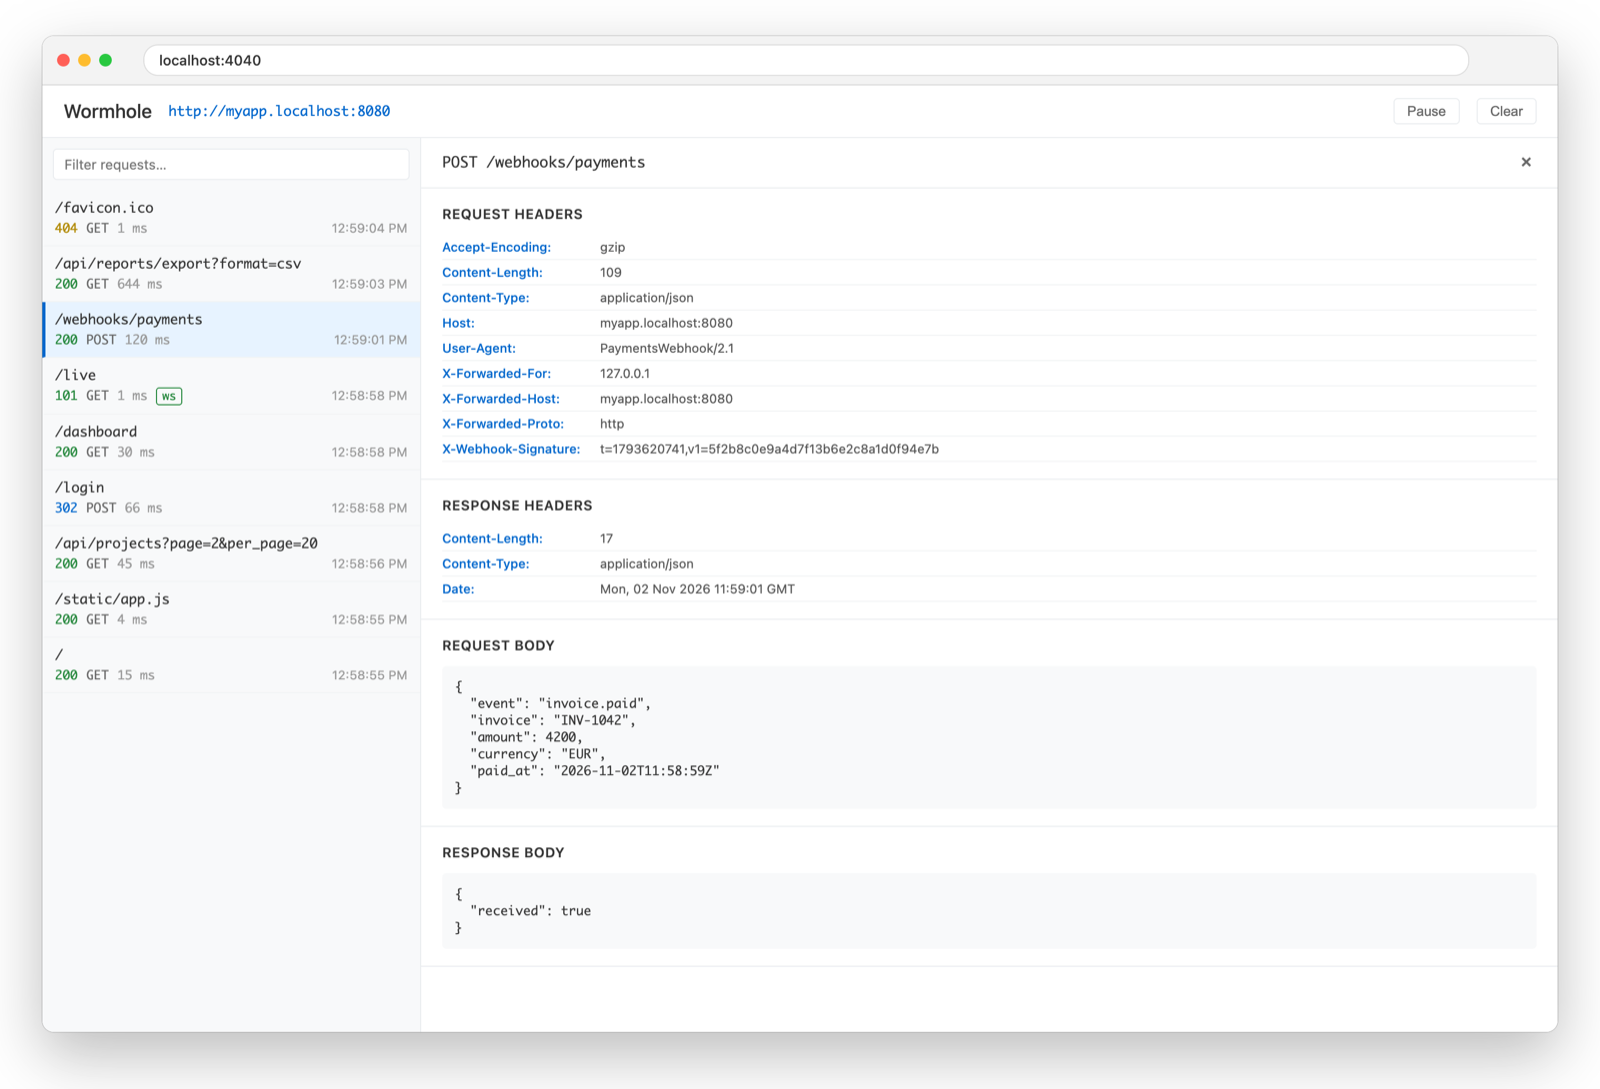
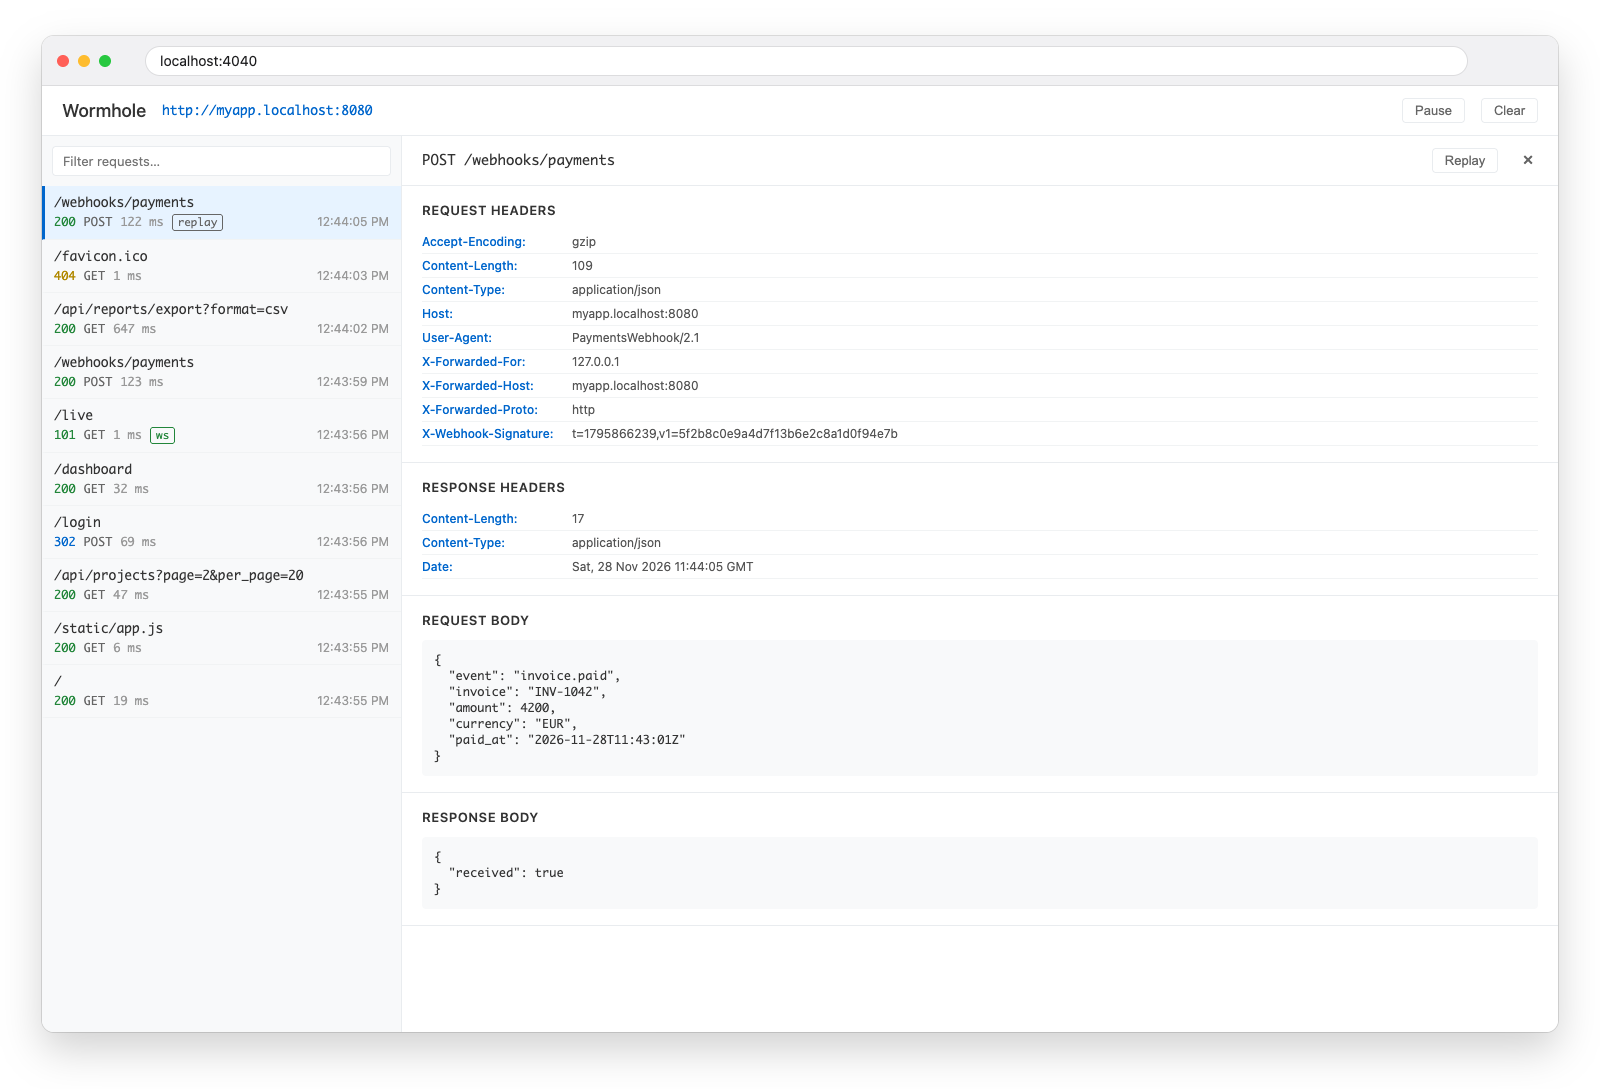
Add request replay to the Web UI
A Replay button in the request details sends the recorded request to
the local app again and records the result as a new entry, marked with
a replay badge (RequestLog.ReplayOf). The replay goes from the client
to the local app only, never through the server.

Requests still in progress, WebSocket handshakes and requests whose
stored body was cut at 64 KB are refused. The endpoint also refuses a
foreign Origin, since a bodyless POST needs no preflight and its Host
passes localHostOnly.

diff --git a/client/templates/dashboard.js b/client/templates/dashboard.js
@@ -182,7 +182,8 @@ async function refreshMessages() {
 }
 
 function matchesFilter(req, query) {
-    const text = req.Method + ' ' + req.URL + ' ' + req.StatusCode + (req.Stream ? ' websocket' : '');
+    const text = req.Method + ' ' + req.URL + ' ' + req.StatusCode + (req.Stream ? ' websocket' : '') +
+        (req.ReplayOf ? ' replay' : '');
     return text.toLowerCase().includes(query);
 }
 
@@ -210,6 +211,9 @@ function renderRequestItem(req) {
             ? '<span class="ws-badge ws-open" title="WebSocket open">ws</span>'
             : '<span class="ws-badge ws-closed" title="WebSocket closed">ws</span>';
     }
+    const replayBadge = req.ReplayOf
+        ? '<span class="ws-badge replay-badge" title="Replay of an earlier request">replay</span>'
+        : '';
 
     return '<li class="request-item' + selected + '" data-id="' + req.UUID + '"' +
         ' title="' + escapeHtml(req.URL) + '" onclick="selectRequest(\'' + req.UUID + '\')">' +
@@ -219,6 +223,7 @@ function renderRequestItem(req) {
         '<span class="method">' + escapeHtml(req.Method) + '</span>' +
         '<span class="duration" title="Time the local app took to respond">' + formatDuration(req.Duration) + '</span>' +
         wsBadge +
+        replayBadge +
         errorDot +
         '<span class="time">' + time + '</span>' +
         '</div>' +
@@ -283,6 +288,15 @@ function renderDetails(inHistory) {
     lastDetailsPayload = payload;
 
     document.getElementById('detailsTitle').textContent = req.Method + ' ' + req.URL;
+
+    // The server refuses these too; the button only says so up front.
+    const replayButton = document.getElementById('replayButton');
+    const storedBody = req.RequestBody ? atob(req.RequestBody).length : 0;
+    let replayBlocked = '';
+    if (req.Stream) replayBlocked = 'WebSocket handshakes cannot be replayed';
+    else if (req.RequestBodySize > storedBody) replayBlocked = 'Body was cut to its first 64 KB, so it cannot be replayed';
+    replayButton.disabled = Boolean(replayBlocked);
+    replayButton.title = replayBlocked || 'Send this request to your local app again';
 
     const errorSection = document.getElementById('errorSection');
     if (req.Error) {
@@ -360,6 +374,22 @@ async function countNewWhilePaused() {
             count > 0 ? 'Resume (' + count.toLocaleString() + ' new)' : 'Resume';
     } catch (err) {
         console.error('Failed to count new requests:', err);
+    }
+}
+
+// Sends the selected request to the local app again, then shows the replay.
+async function replayRequest() {
+    try {
+        const response = await fetch('/api/requests/' + encodeURIComponent(selectedId) + '/replay', { method: 'POST' });
+        if (!response.ok) {
+            alert('Replay failed: ' + (await response.text()).trim());
+            return;
+        }
+        const { id } = await response.json();
+        await refresh();
+        selectRequest(id);
+    } catch (err) {
+        console.error('Failed to replay:', err);
     }
 }
 

diff --git a/client/templates/index.html b/client/templates/index.html
@@ -22,6 +22,7 @@
             <div id="detailsPanel" class="details-panel">
                 <div class="details-header">
                     <h3 id="detailsTitle">Request Details</h3>
+                    <button id="replayButton" class="header-button" onclick="replayRequest()">Replay</button>
                     <button class="details-close" onclick="closeDetails()">&times;</button>
                 </div>
                 <div class="details-content">

diff --git a/client/templates/dashboard.css b/client/templates/dashboard.css
@@ -164,6 +164,10 @@ body {
 }
 .ws-open { color: var(--color-success); }
 .ws-closed { color: var(--color-text-light); }
+.replay-badge { color: var(--color-text-muted); }
+
+.details-header #replayButton { margin-left: auto; margin-right: 8px; }
+.header-button:disabled { opacity: 0.5; cursor: default; }
 
 .empty { color: var(--color-text-light); text-align: center; padding: 30px 12px; font-size: 13px; }
 

diff --git a/client/web_ui_test.go b/client/web_ui_test.go
@@ -3,12 +3,15 @@ package client
 import (
 	"context"
 	"encoding/json"
+	"io"
 	"net"
 	"net/http"
 	"net/http/httptest"
 	"strings"
 	"testing"
 	"time"
+
+	"github.com/dbackowski/wormhole/common"
 )
 
 func TestDashboardServesFiles(t *testing.T) {
@@ -359,5 +362,101 @@ func TestHandleMessages(t *testing.T) {
 	list := get("/api/requests").Body.String()
 	if strings.Contains(list, `"Messages":[`) || !strings.Contains(list, `"Stream":{"Open":true`) {
 		t.Errorf("list = %s, want Stream without the messages", list)
+	}
+}
+
+func TestReplay(t *testing.T) {
+	type seen struct{ method, url, sig, body string }
+	got := make(chan seen, 2)
+	app := httptest.NewServer(http.HandlerFunc(func(w http.ResponseWriter, r *http.Request) {
+		body, _ := io.ReadAll(r.Body)
+		got <- seen{r.Method, r.URL.String(), r.Header.Get("X-Signature"), string(body)}
+		w.WriteHeader(http.StatusAccepted)
+		w.Write([]byte("ok"))
+	}))
+	defer app.Close()
+
+	client, _, wsServer, serverConn := newTestClient(t, app.URL)
+	defer wsServer.Close()
+	defer client.Conn.Close()
+	defer serverConn.Close()
+
+	runHTTPRequest(t, client, &common.Message{
+		Type:   common.MessageTypeHTTPRequest,
+		UUID:   "orig",
+		Method: "POST",
+		URL:    "/hook?a=1",
+		Headers: map[string][]string{
+			"Host":           {"test.example.com"},
+			"X-Signature":    {"sha256=abc"},
+			"Content-Length": {"7"},
+		},
+		Body: []byte(`{"x":1}`),
+	})
+	readTunnelResponse(t, serverConn)
+	first := <-got
+
+	// Entries Replay must refuse.
+	client.history.Add(RequestLog{UUID: "cut", Done: true, Method: "POST", URL: "/", RequestBody: []byte("x"), RequestBodySize: 2})
+	client.history.Add(RequestLog{UUID: "ws", Done: true, Method: "GET", URL: "/", RequestHeaders: map[string][]string{"Upgrade": {"websocket"}}})
+	client.history.Add(RequestLog{UUID: "busy", Method: "GET", URL: "/"})
+
+	ui := NewWebUI(client, 0)
+	replay := func(id, origin string) *httptest.ResponseRecorder {
+		req := httptest.NewRequest(http.MethodPost, "/api/requests/"+id+"/replay", nil)
+		req.Host = "localhost:4040"
+		if origin != "" {
+			req.Header.Set("Origin", origin)
+		}
+		w := httptest.NewRecorder()
+		ui.server.Handler.ServeHTTP(w, req)
+		return w
+	}
+
+	for _, tc := range []struct {
+		id, origin string
+		want       int
+	}{
+		{"orig", "https://evil.example", http.StatusForbidden},
+		{"gone", "", http.StatusNotFound},
+		{"cut", "", http.StatusConflict},
+		{"ws", "", http.StatusConflict},
+		{"busy", "", http.StatusConflict},
+	} {
+		if w := replay(tc.id, tc.origin); w.Code != tc.want {
+			t.Errorf("replay %s from %q = %d, want %d", tc.id, tc.origin, w.Code, tc.want)
+		}
+	}
+
+	w := replay("orig", "http://localhost:4040")
+	if w.Code != http.StatusOK {
+		t.Fatalf("replay = %d %s, want 200", w.Code, w.Body)
+	}
+	var result struct{ ID string }
+	json.NewDecoder(w.Body).Decode(&result)
+
+	if again := <-got; again != first {
+		t.Errorf("app saw replay %+v, want the original %+v", again, first)
+	}
+
+	deadline := time.Now().Add(2 * time.Second)
+	var log RequestLog
+	for time.Now().Before(deadline) {
+		log, _ = client.history.Get(result.ID)
+		if log.Done {
+			break
+		}
+		time.Sleep(5 * time.Millisecond)
+	}
+	if !log.Done || log.ReplayOf != "orig" || log.StatusCode != http.StatusAccepted ||
+		string(log.ResponseBody) != "ok" || string(log.RequestBody) != `{"x":1}` {
+		t.Errorf("replay entry = %+v, want a done 202 replay of orig", log)
+	}
+
+	// The replay stays between the client and the app.
+	serverConn.SetReadDeadline(time.Now().Add(100 * time.Millisecond))
+	var m common.Message
+	if err := serverConn.ReadJSON(&m); err == nil {
+		t.Errorf("server got %+v from a replay", m)
 	}
 }

diff --git a/client/message_handlers.go b/client/message_handlers.go
@@ -3,6 +3,7 @@ package client
 import (
 	"bytes"
 	"context"
+	"crypto/rand"
 	"errors"
 	"io"
 	"maps"
@@ -151,6 +152,70 @@ func (c *Client) finishRecord(uuid string, reqBody, respBody *bodyCapture, err e
 		}
 	})
 	c.requestRedraw()
+}
+
+// The requests Replay refuses.
+var (
+	errReplayNotFound   = errors.New("request is no longer in the history")
+	errReplayInProgress = errors.New("request is still in progress")
+	errReplayWebSocket  = errors.New("WebSocket handshakes cannot be replayed")
+	errReplayTruncated  = errors.New("request body was cut to its first 64 KB in the history, so it cannot be replayed")
+)
+
+// Replay sends the request recorded under id to the local app again, and
+// records the result as a new entry whose UUID it returns once the response
+// headers are in. Nothing goes to the server: a replay is between this client
+// and the local app.
+func (c *Client) Replay(id string) (string, error) {
+	orig, ok := c.history.Get(id)
+	switch {
+	case !ok:
+		return "", errReplayNotFound
+	case !orig.Done:
+		return "", errReplayInProgress
+	case http.Header(orig.RequestHeaders).Get("Upgrade") != "":
+		return "", errReplayWebSocket
+	case orig.RequestBodySize > len(orig.RequestBody):
+		return "", errReplayTruncated
+	}
+
+	msg := &common.Message{
+		Type:    common.MessageTypeHTTPRequest,
+		UUID:    rand.Text(),
+		Method:  orig.Method,
+		URL:     orig.URL,
+		Headers: orig.RequestHeaders,
+	}
+	start := time.Now()
+	reqBody := &bodyCapture{}
+	// Not the dashboard's request context: the body is read after the handler
+	// has returned.
+	resp, err := c.proxy.Forward(context.Background(), msg, io.TeeReader(bytes.NewReader(orig.RequestBody), reqBody))
+
+	status, headers := http.StatusBadGateway, http.Header(nil)
+	if err == nil {
+		status, headers = resp.StatusCode, resp.Header
+	}
+	c.recordRequest(msg, status, headers, err, StreamInfo{}, time.Since(start))
+	c.history.Update(msg.UUID, func(log *RequestLog) { log.ReplayOf = id })
+
+	respBody := &bodyCapture{}
+	if err != nil {
+		respBody.Write([]byte(http.StatusText(http.StatusBadGateway))) //nolint:errcheck
+		c.finishRecord(msg.UUID, reqBody, respBody, nil, time.Since(start))
+		return msg.UUID, nil
+	}
+	// ponytail: an endless response (an event stream) is read until the app
+	// ends it or the client exits; add a cancel button if that bites.
+	go func() {
+		defer resp.Body.Close()
+		_, err := io.Copy(io.Discard, io.TeeReader(resp.Body, respBody))
+		if err != nil {
+			err = errors.New("response cut off: " + err.Error())
+		}
+		c.finishRecord(msg.UUID, reqBody, respBody, err, time.Since(start))
+	}()
+	return msg.UUID, nil
 }
 
 // bodyCapture keeps the head of a body for the history, MaxStoredBodySize

diff --git a/client/web_ui.go b/client/web_ui.go
@@ -4,6 +4,7 @@ import (
 	"context"
 	"embed"
 	"encoding/json"
+	"errors"
 	"fmt"
 	"io/fs"
 	"net"
@@ -32,6 +33,7 @@ func NewWebUI(client *Client, port int) *WebUI {
 	mux.HandleFunc("/api/requests", ui.handleRequests)
 	mux.HandleFunc("GET /api/requests/{id}", ui.handleRequest)
 	mux.HandleFunc("GET /api/requests/{id}/messages", ui.handleMessages)
+	mux.HandleFunc("POST /api/requests/{id}/replay", ui.handleReplay)
 
 	ui.server = &http.Server{
 		Addr:    fmt.Sprintf("127.0.0.1:%d", port),
@@ -116,6 +118,25 @@ func (ui *WebUI) handleRequest(w http.ResponseWriter, r *http.Request) {
 		return
 	}
 	writeJSON(w, log)
+}
+
+// handleReplay answers with the new entry's UUID. A POST with no body is one
+// any site's page can send here without a preflight, and localHostOnly passes
+// it, since its Host is localhost; only its Origin gives it away.
+func (ui *WebUI) handleReplay(w http.ResponseWriter, r *http.Request) {
+	if origin := r.Header.Get("Origin"); origin != "" && origin != "http://"+r.Host {
+		http.Error(w, "forbidden origin", http.StatusForbidden)
+		return
+	}
+	id, err := ui.client.Replay(r.PathValue("id"))
+	switch {
+	case errors.Is(err, errReplayNotFound):
+		http.Error(w, err.Error(), http.StatusNotFound)
+	case err != nil:
+		http.Error(w, err.Error(), http.StatusConflict)
+	default:
+		writeJSON(w, map[string]string{"id": id})
+	}
 }
 
 func (ui *WebUI) handleMessages(w http.ResponseWriter, r *http.Request) {

diff --git a/client/client.go b/client/client.go
@@ -47,6 +47,7 @@ type RequestLog struct {
 	RequestBodySize  int // full size before truncation
 	ResponseBodySize int
 
+	ReplayOf string      `json:",omitempty"` // UUID of the request this one replayed, see Client.Replay
 	Stream   StreamInfo  `json:",omitzero"`
 	Messages []WSMessage `json:"-"` // served on their own, see RequestHistory.GetMessages
 }

diff --git a/README.md b/README.md
@@ -162,6 +162,7 @@ When the client is running, a dashboard is available at `http://localhost:4040` 
 - Inspect request/response headers and bodies
 - See query parameters and form-encoded request bodies (`application/x-www-form-urlencoded`) decoded as name/value pairs, with the raw body still shown
 - For WebSockets: see whether each socket is open, the bytes and message counts in each direction, and its recent messages (text, JSON, binary as hex, close codes)
+- Send a request to your local app again with the **Replay** button, say a webhook you are debugging, without triggering it at its source. The replay goes straight from the client to your app, never through the server, and shows in the list as a new request marked `replay`. Requests whose stored body was cut at 64 KB and WebSocket handshakes cannot be replayed. Webhook signatures that cover a timestamp, like Stripe's, fail verification once the event is older than the sender's tolerance (5 minutes for Stripe)
 - Freeze the list with the **Pause** button when requests arrive faster than you can click them; **Resume** catches up
 - Keep reading a selected request under busy traffic: its details stay open after it has left the history
 - Clear the request history with the **Clear** button (also clears the terminal view)
